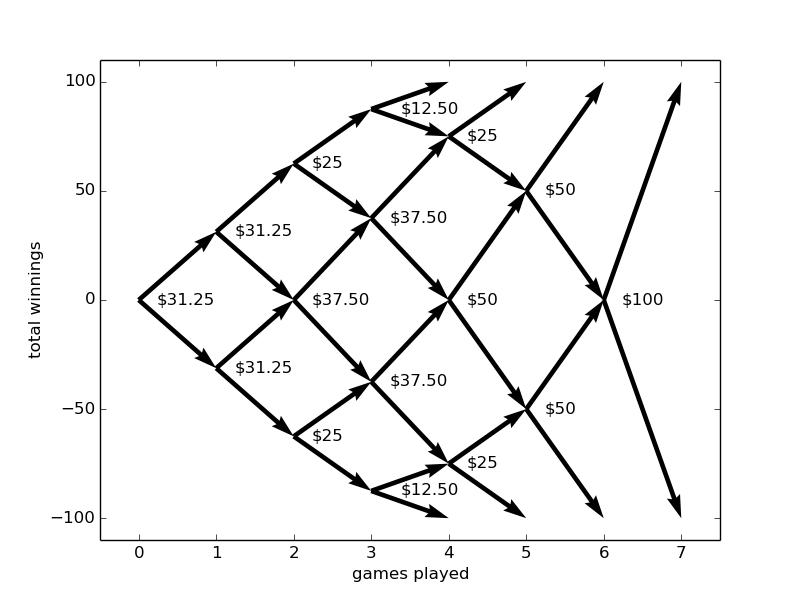
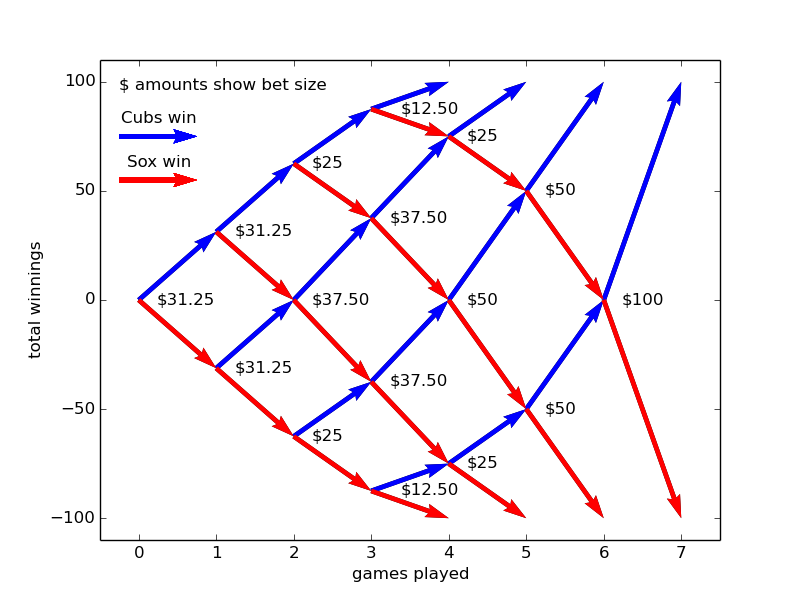
Riddler 20160930 classic: Colorize.

diff --git a/538/20160930-classic-cubs-betting/riddler-cubs-betting.py b/538/20160930-classic-cubs-betting/riddler-cubs-betting.py
@@ -79,19 +79,30 @@ def quiverable(result):
 
 def main():
     solution = solve()
-
     x, y, u, v = quiverable(arrows(solution))
-    q = plt.quiver(x, y, u, v, scale=1., scale_units='xy', angles='xy')
+
+    plt.quiver(x, y, u, v, scale=1., scale_units='xy', angles='xy')
     plt.xlim((-0.5, 7.5))
     plt.ylim((-110, 110))
     plt.savefig('riddler-20160930-classic-cubs-betting.blank.png')
+
+    qc = plt.quiver(x[0::2], y[0::2], u[0::2], v[0::2], color='blue',
+                    scale=1., scale_units='xy', angles='xy')
+    qs = plt.quiver(x[1::2], y[1::2], u[1::2], v[1::2], color='red',
+               scale=1., scale_units='xy', angles='xy')
+    plt.xlim((-0.5, 7.5))
+    plt.ylim((-110, 110))
+
     plt.xlabel('games played')
     plt.ylabel('total winnings')
-    plt.savefig('riddler-20160930-classic-cubs-betting.with-axes.png')
-
     for a in annotations(solution):
         plt.annotate(a['text'], xy=a['xy'], xytext=a['xytext'],
                      verticalalignment='center')
+    #plt.legend()
+    plt.annotate('$ amounts show bet size', xy=(-0.25,95),
+                 verticalalignment='bottom')
+    plt.quiverkey(qc, 0.25, 75, 1, 'Cubs win', coordinates='data')
+    plt.quiverkey(qs, 0.25, 55, 1, 'Sox win', coordinates='data')
     plt.savefig('riddler-20160930-classic-cubs-betting.with-bets.png')
 
     plt.show()
